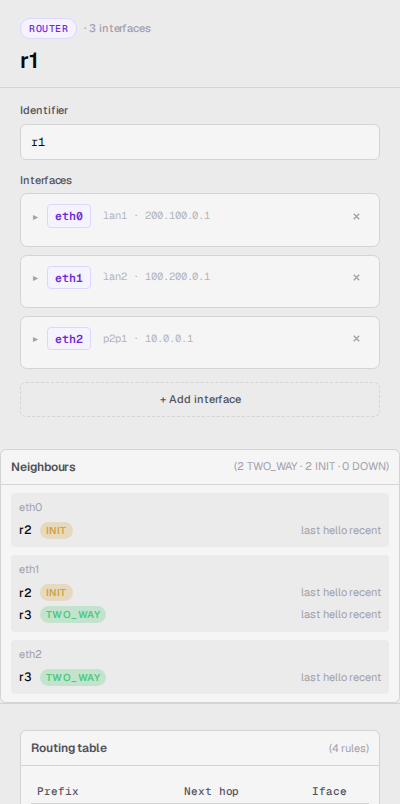
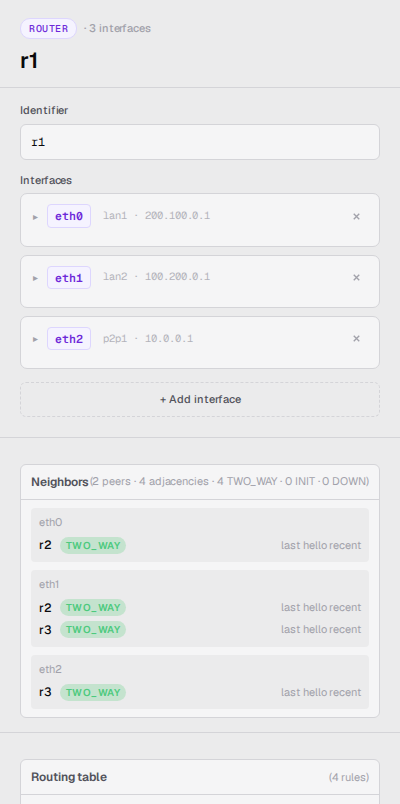
feat(web): Neighbors panel improvements + Hello/LSA labels in Packets panel

diff --git a/web/inspector.test.js b/web/inspector.test.js
@@ -1677,7 +1677,7 @@ describe('Inspector.onNATChange', () => {
 });
 
 // ---------------------------------------------------------------------------
-// Collapsible inspector sections + Neighbours panel (Task 20)
+// Collapsible inspector sections + Neighbors panel (Task 20)
 // ---------------------------------------------------------------------------
 function setupRouter20() {
   state.routers = {
@@ -1695,28 +1695,28 @@ function setupRouter20() {
   state.neighborsByDevice = {};
 }
 
-describe('renderRouterInsp — collapsible sections + Neighbours', () => {
+describe('renderRouterInsp — collapsible sections + Neighbors', () => {
   beforeEach(() => {
     setupDOM();
     resetState();
     setupRouter20();
   });
 
-  it('renders top-level collapsible sections for Routing table and Neighbours', () => {
+  it('renders top-level collapsible sections for Routing table and Neighbors', () => {
     renderRouterInsp('r1', document.getElementById('inspector'));
     const sections = document.querySelectorAll('details.insp-section');
     const labels = Array.from(sections).map(s => s.querySelector('summary').textContent.trim());
     expect(labels.some(l => l.startsWith('Routing table'))).toBe(true);
-    expect(labels.some(l => l.startsWith('Neighbours'))).toBe(true);
+    expect(labels.some(l => l.startsWith('Neighbors'))).toBe(true);
   });
 
-  it('renders eth0 and eth1 in the Neighbours section when no neighbour data', () => {
+  it('renders eth0 and eth1 in the Neighbors section when no neighbor data', () => {
     renderRouterInsp('r1', document.getElementById('inspector'));
-    const neighbourSection = Array.from(document.querySelectorAll('details.insp-section'))
-      .find(s => s.querySelector('summary').textContent.trim().startsWith('Neighbours'));
-    expect(neighbourSection).toBeTruthy();
-    expect(neighbourSection.textContent).toContain('eth0');
-    expect(neighbourSection.textContent).toContain('eth1');
+    const neighborSection = Array.from(document.querySelectorAll('details.insp-section'))
+      .find(s => s.querySelector('summary').textContent.trim().startsWith('Neighbors'));
+    expect(neighborSection).toBeTruthy();
+    expect(neighborSection.textContent).toContain('eth0');
+    expect(neighborSection.textContent).toContain('eth1');
   });
 
   it('groups multiple peers on the same interface under one iface block', () => {
@@ -1750,9 +1750,54 @@ describe('renderRouterInsp — collapsible sections + Neighbours', () => {
     };
     renderRouterInsp('r1', document.getElementById('inspector'));
     const section = Array.from(document.querySelectorAll('details.insp-section'))
-      .find(s => s.querySelector('summary').textContent.trim().startsWith('Neighbours'));
+      .find(s => s.querySelector('summary').textContent.trim().startsWith('Neighbors'));
     const summary = section.querySelector('summary').textContent;
     expect(summary).toMatch(/1 TWO_WAY/);
     expect(summary).toMatch(/1 INIT/);
+  });
+
+  it('summary line leads with unique peers and total adjacencies', () => {
+    // Same peer router (r2) heard on both interfaces — one peer, two adjacencies.
+    state.neighborsByDevice = {
+      r1: {
+        eth0: { r2: { state: 'two_way' } },
+        eth1: { r2: { state: 'two_way' }, r3: { state: 'two_way' } },
+      },
+    };
+    renderRouterInsp('r1', document.getElementById('inspector'));
+    const section = Array.from(document.querySelectorAll('details.insp-section'))
+      .find(s => s.querySelector('summary').textContent.trim().startsWith('Neighbors'));
+    const summary = section.querySelector('summary').textContent;
+    expect(summary).toMatch(/2 peers/);
+    expect(summary).toMatch(/3 adjacencies/);
+    expect(summary).toMatch(/3 TWO_WAY/);
+  });
+
+  it('uses singular "peer" / "adjacency" when count is 1', () => {
+    // Single-interface router with one peer — exercises singular forms.
+    state.routers = {
+      r1: { interfaces: { eth0: { network: 'lan1', address: '10.0.0.1', cost: 1 } } },
+    };
+    state.neighborsByDevice = {
+      r1: { eth0: { r2: { state: 'two_way' } } },
+    };
+    renderRouterInsp('r1', document.getElementById('inspector'));
+    const section = Array.from(document.querySelectorAll('details.insp-section'))
+      .find(s => s.querySelector('summary').textContent.trim().startsWith('Neighbors'));
+    const summary = section.querySelector('summary').textContent;
+    expect(summary).toMatch(/1 peer\b/);
+    expect(summary).toMatch(/1 adjacency\b/);
+  });
+
+  it('counts interfaces with no peers as 0 peers but as DOWN entries', () => {
+    // No neighbor data at all — both interfaces show synthetic DOWN rows.
+    state.neighborsByDevice = {};
+    renderRouterInsp('r1', document.getElementById('inspector'));
+    const section = Array.from(document.querySelectorAll('details.insp-section'))
+      .find(s => s.querySelector('summary').textContent.trim().startsWith('Neighbors'));
+    const summary = section.querySelector('summary').textContent;
+    expect(summary).toMatch(/0 peers/);
+    expect(summary).toMatch(/2 adjacencies/);
+    expect(summary).toMatch(/2 DOWN/);
   });
 });

diff --git a/web/inspector.js b/web/inspector.js
@@ -54,7 +54,7 @@ function addressValidatorFor(fabricKind, fabricName, selfRef) {
     if (!isValidIpv4(v)) return { ok: false, reason: 'not a valid IPv4 address' };
     // Containment: an interface address only makes sense inside its fabric's
     // CIDR. Without this check, the user could attach a router to lan1 with an
-    // address from a different subnet — neighbours would still flood the bogus
+    // address from a different subnet — neighbors would still flood the bogus
     // route via link-state, but no traffic could ever reach it.
     if (fabricName) {
       const fabric = (fabricKind === 'link' ? state.links : state.networks)[fabricName];
@@ -104,7 +104,7 @@ function wireFieldValidation(input, errorEl, validateFn) {
 
 /* ---------- collapsible section helpers ----------
    Track which top-level sections are open across re-renders, mirroring the
-   existing per-iface openIfaces pattern. Values: 'routing' | 'nat' | 'neighbours'. */
+   existing per-iface openIfaces pattern. Values: 'routing' | 'nat' | 'neighbors'. */
 const openSections = new Set();
 
 function rememberOpen(elI) {
@@ -142,10 +142,14 @@ function renderRoutingSection(deviceName) {
     `</details>`;
 }
 
-/* ---------- neighbours section ---------- */
-function renderNeighbourSection(device, router) {
+/* ---------- neighbors section ---------- */
+function renderNeighborSection(device, router) {
   const data = (state.neighborsByDevice && state.neighborsByDevice[device]) || {};
   const ifaceNames = Object.keys(router.interfaces || {});
+  // peers = unique peer-router names; adjacencies = total per-interface entries
+  // (including synthetic DOWN rows for interfaces with no peers, so the math
+  // adjacencies = TWO_WAY + INIT + DOWN holds).
+  const peerSet = new Set();
   const counts = { down: 0, init: 0, two_way: 0 };
   const ifaceBlocks = ifaceNames.map(iface => {
     const peers = data[iface] || {};
@@ -159,6 +163,7 @@ function renderNeighbourSection(device, router) {
     const rows = peerNames.map(peer => {
       const n = peers[peer];
       counts[n.state] = (counts[n.state] || 0) + 1;
+      peerSet.add(peer);
       // TODO: replace 'recent' with a real "Ns ago" once clock sync is available.
       const ago = n.last_hello_at != null ? 'last hello recent' : '';
       const stateClass = n.state || 'down';
@@ -174,10 +179,15 @@ function renderNeighbourSection(device, router) {
       `${rows}` +
       `</div>`;
   }).join('');
-  const hint = `(${counts.two_way} TWO_WAY · ${counts.init} INIT · ${counts.down} DOWN)`;
-  const openAttr = isOpen('neighbours') ? ' open' : '';
-  return `<details class="insp-section" data-section="neighbours"${openAttr}>` +
-    `<summary>Neighbours <span class="summary-hint">${hint}</span></summary>` +
+  const peerCount = peerSet.size;
+  const adjCount = counts.two_way + counts.init + counts.down;
+  const peerWord = peerCount === 1 ? 'peer' : 'peers';
+  const adjWord = adjCount === 1 ? 'adjacency' : 'adjacencies';
+  const hint = `(${peerCount} ${peerWord} · ${adjCount} ${adjWord} · ` +
+    `${counts.two_way} TWO_WAY · ${counts.init} INIT · ${counts.down} DOWN)`;
+  const openAttr = isOpen('neighbors') ? ' open' : '';
+  return `<details class="insp-section" data-section="neighbors"${openAttr}>` +
+    `<summary>Neighbors <span class="summary-hint">${hint}</span></summary>` +
     `<div class="insp-section-body neigh-list">${ifaceBlocks}</div>` +
     `</details>`;
 }
@@ -932,7 +942,7 @@ export function renderRouterInsp(name, elI) {
         <button class="add-if" id="add-if" style="margin-top:8px;">+ Add interface</button>
       </div>
     </div>
-    <div class="insp-neighbours">${renderNeighbourSection(name, router)}</div>
+    <div class="insp-neighbors">${renderNeighborSection(name, router)}</div>
     <div class="insp-routes" id="insp-routes">${renderRoutingSection(name)}</div>
     <div class="insp-nat" id="insp-nat" hidden></div>
     <div class="insp-foot">
@@ -1269,11 +1279,11 @@ bus.addEventListener('sim:neighbor-state-changed', (e) => {
   const router = state.routers[device];
   if (!router) return;
   const elI = document.getElementById('inspector');
-  const container = elI && elI.querySelector('.insp-neighbours');
+  const container = elI && elI.querySelector('.insp-neighbors');
   if (!container) return;
-  // Re-render only the Neighbours section, preserving open/closed state.
+  // Re-render only the Neighbors section, preserving open/closed state.
   rememberOpen(elI);
-  container.innerHTML = renderNeighbourSection(device, router);
+  container.innerHTML = renderNeighborSection(device, router);
   wireSectionToggles(container);
 });
 bus.addEventListener('canvas:contextmenu-requested', (e) => {

diff --git a/web/packetspanel.js b/web/packetspanel.js
@@ -8,6 +8,16 @@ import { state, bus, markDirty } from './state.js';
 import { escapeHtml } from './utils.js';
 import { PacketStore } from './packetstore.js';
 
+// Friendly labels for chatter rows, so the panel shows "Hello" / "LSA"
+// instead of the raw wire-type strings.
+const FRIENDLY_CHATTER_LABELS = {
+  hello: 'Hello',
+  routing_flood: 'LSA',
+};
+function _friendlyTypeLabel(type) {
+  return FRIENDLY_CHATTER_LABELS[type] || type || '';
+}
+
 export const PacketsPanel = {
   _wired: false,
   _panel: null,
@@ -174,11 +184,13 @@ export const PacketsPanel = {
         ${this._payloadHtml(group.payload)}
         <div class="pkt-emissions">${group.emissionKeys.length} emission${group.emissionKeys.length === 1 ? '' : 's'} in flight</div>
       </div>` : '';
+    const typeLabel = _friendlyTypeLabel(group.type);
     return `
       <div class="pkt-row pkt-chatter-row" data-payload-id="${escapeHtml(group.payloadId)}" data-emission-keys="${escapeHtml(group.emissionKeys.join(' '))}">
         <button class="pkt-toggle" aria-expanded="${isOpen}">${isOpen ? '▾' : '▸'}</button>
         <span class="pkt-swatch" data-type="${escapeHtml(group.type)}"></span>
         <span class="pkt-id">#R${group.id}</span>
+        <span class="pkt-type">${escapeHtml(typeLabel)}</span>
         <span class="pkt-route">${escapeHtml(group.srcDev || '?')} → ${escapeHtml(group.network || '?')}</span>
         ${group.iface ? `<span class="pkt-hop-net">(${escapeHtml(group.iface)})</span>` : ''}
         <span class="pkt-emission-count">×${group.emissionKeys.length}</span>

diff --git a/web/packetspanel.test.js b/web/packetspanel.test.js
@@ -745,7 +745,7 @@ describe('PacketsPanel — hello chatter section', () => {
       src: { device: 'r1', iface: 'eth0', address: '10.0.0.254' },
       dst: { device: null, address: '255.255.255.255' },
       payload_src: '10.0.0.254', payload_dst: '255.255.255.255',
-      payload: { originator: 'r1', neighbours_heard: [] },
+      payload: { originator: 'r1', neighbors_heard: [] },
     } }));
   }
 
@@ -802,5 +802,24 @@ describe('PacketsPanel — hello chatter section', () => {
     expect(summary).not.toBeNull();
     // 2 distinct logical messages in the chatter section
     expect(summary.textContent).toContain('2');
+  });
+
+  it('chatter rows show a friendly type label (Hello / LSA) next to the id', () => {
+    PacketsPanel.wire();
+    PacketsPanel.open();
+    emitHello('h1');
+    bus.dispatchEvent(new CustomEvent('sim:packet', { detail: {
+      type: 'routing_flood', payload_id: 'lsa-1', network: 'lan_a',
+      src: { device: 'r1', iface: 'eth0', address: '10.0.0.254' },
+      dst: { device: null, address: '255.255.255.255' },
+      payload_src: '10.0.0.254', payload_dst: '255.255.255.255',
+    } }));
+    PacketsPanel.render();
+    document.querySelector('.pkt-chatter-summary .pkt-toggle').click();
+    const rows = Array.from(document.querySelectorAll('.pkt-chatter-row'));
+    expect(rows.length).toBe(2);
+    const labels = rows.map(r => r.querySelector('.pkt-type')?.textContent);
+    expect(labels).toContain('Hello');
+    expect(labels).toContain('LSA');
   });
 });

diff --git a/web/styles.css b/web/styles.css
@@ -1341,7 +1341,9 @@ input.invalid { border-color: var(--neg); box-shadow: 0 0 0 2px color-mix(in srg
 .fabric-name-row select { flex: 1; min-width: 0; }
 .fabric-name-row .btn-sec { white-space: nowrap; padding: 6px 10px; font-size: 12px; }
 
-.insp-routes {
+.insp-routes,
+.insp-neighbors,
+.insp-nat {
   padding: 14px 20px;
   border-top: 1px solid var(--border);
 }
@@ -1824,7 +1826,7 @@ input.invalid { border-color: var(--neg); box-shadow: 0 0 0 2px color-mix(in srg
 }
 .popover-actions .btn-sec:hover { color: var(--accent-text); border-color: var(--accent); background: var(--accent-bg); }
 
-/* Neighbour state badges */
+/* Neighbor state badges */
 .neigh-state {
   display: inline-block;
   padding: 1px 6px;
@@ -1869,7 +1871,7 @@ details.insp-section .summary-hint {
   font-weight: 400;
 }
 
-/* Neighbours table */
+/* Neighbors table */
 .neigh-list {
   display: flex;
   flex-direction: column;

diff --git a/docs/user-guide/web-ui.md b/docs/user-guide/web-ui.md
@@ -195,7 +195,7 @@ first.
 For tracking multiple packets at once — or for keeping context while the simulation is still running — click **Packets** in the toolbar. A panel slides in from the right showing:
 
 - **In flight — user traffic.** One row per packet currently crossing the network, with a numeric badge (`#1`, `#2`, …). The same badge rides on the corresponding dot in the canvas, so a row and its packet are always paired by sight. Expand a row to see the packet's hop history and any NAT translations along the way.
-- **In flight — routing chatter.** Routing-protocol packets are summarised on a single line by default to keep the list readable. Expand the summary to see each one individually with its own `#R1`, `#R2`, … badge — handy when teaching how the protocol propagates updates.
+- **In flight — routing chatter.** Routing-protocol packets are summarised on a single line by default to keep the list readable. Expand the summary to see each one individually with its own `#R1`, `#R2`, … badge and a **Hello** / **LSA** label so the message type is clear at a glance — handy when teaching how the protocol propagates updates.
 - **Recent.** The last ten user-traffic packets that have completed, oldest dropped first. The same expand-for-detail behaviour applies.
 
 The panel works just as well while the sim is paused — frozen badges sit on the wires alongside the panel rows, making the badge-to-row mapping easy to read.
@@ -267,11 +267,31 @@ the simulator's sentinel value meaning "deliver to the packet's
 destination on this interface." See [Routing tables](routing-tables.md)
 for what to read into this.
 
-The router inspector also shows a **Neighbours** section listing, per
+The router inspector also shows a **Neighbors** section listing, per
 interface, every discovered peer and its adjacency state
-(`TWO_WAY`, `INIT`, or `DOWN`).
+(`TWO_WAY`, `INIT`, or `DOWN`). The summary line counts unique peer
+routers, total adjacencies, and a per-state breakdown — see
+[Neighbors counts](#neighbors-counts) below for the difference between
+peers and adjacencies.
 
-![Router inspector showing Neighbours panel and collapsible Routing table section](../images/inspector-router.png)
+![Router inspector showing Neighbors panel and collapsible Routing table section](../images/inspector-router.png)
+
+### Neighbors counts
+
+The summary line reads e.g.
+`(2 peers · 4 adjacencies · 4 TWO_WAY · 0 INIT · 0 DOWN)`. The two
+counts measure different things:
+
+- **Peers** — the number of *distinct neighbor routers* this router
+  has discovered, regardless of how many shared LANs or links they meet
+  on.
+- **Adjacencies** — one entry per interface a peer is reachable from.
+  Two routers that share both `lan1` and `lan2` count as **one peer /
+  two adjacencies**, because each LAN forms its own adjacency.
+
+The `TWO_WAY`, `INIT`, and `DOWN` totals are per-adjacency states
+(peers and adjacencies are not states). An interface with no peers yet
+shows up as one DOWN entry.
 
 ## Terminals
 
